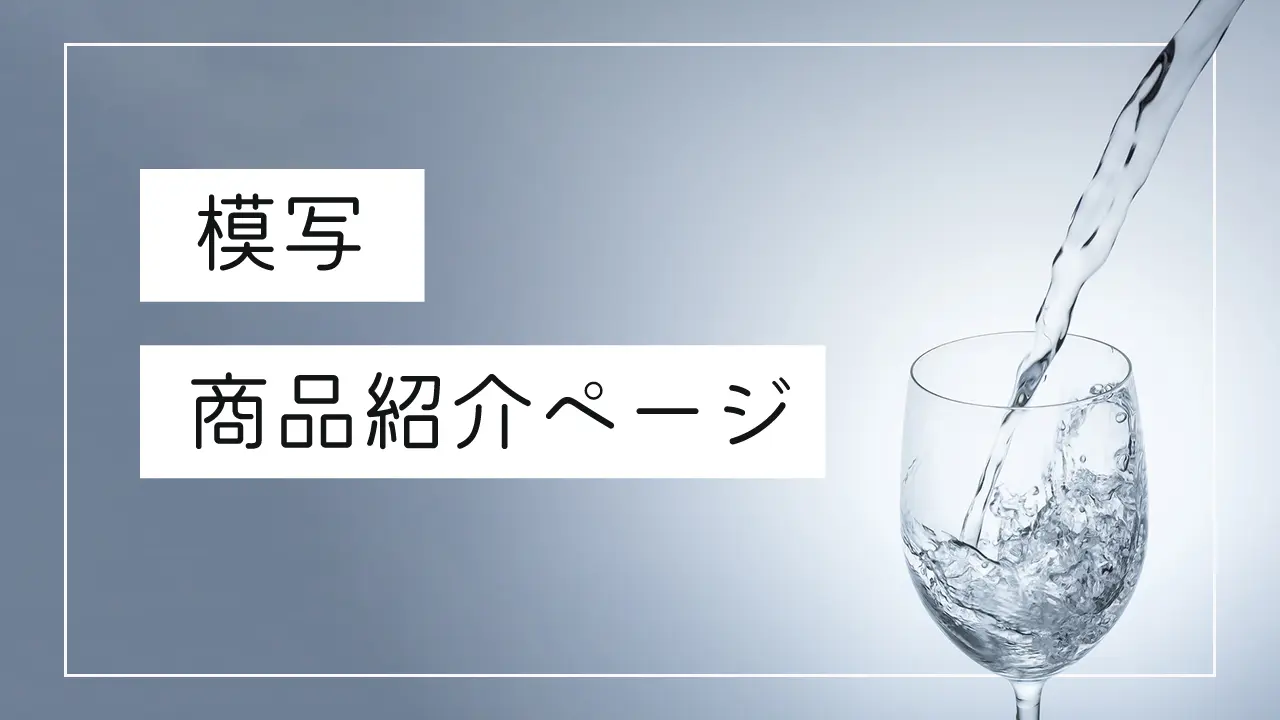
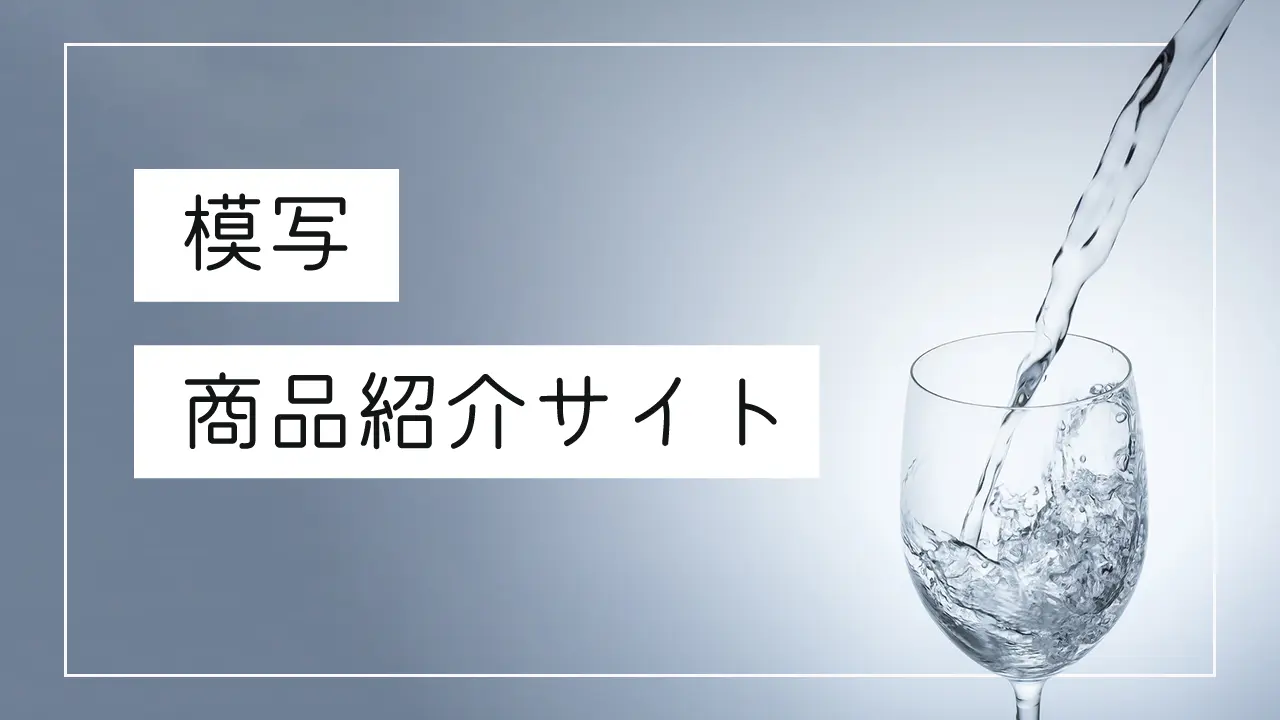
サムネ差し替え、タグ追加

Changed region(s): [[0.0938, 0.4889, 0.6562, 0.6722], [0.0938, 0.2444, 0.2812, 0.4278], [0.3125, 0.2139, 0.3438, 0.4278]]

diff --git a/src/worksData.js b/src/worksData.js
@@ -53,15 +53,15 @@ export const worksData = [
     url: "https://rp-bakery.vercel.app/",
     img: "thumb-rp.webp",
     category: "模写",
-    tag: ["HTML&CSS", "JavaScript", "Photoshop", "Illustrator"],
+    tag: ["HTML&CSS", "JavaScript", "Swiper", "Photoshop", "Illustrator"],
     overview: "架空のパン屋のWebサイトとして制作しました。",
   },
   {
-    name: "商品紹介ページ",
+    name: "商品紹介サイト",
     url: "https://rp-drink.vercel.app/",
     img: "thumb-rp2.webp",
     category: "模写",
-    tag: ["HTML&CSS", "JavaScript", "Photoshop", "Illustrator"],
+    tag: ["HTML&CSS", "JavaScript", "Swiper", "Photoshop", "Illustrator"],
     overview: "架空の清涼飲料水を紹介するWebサイトです。",
   },
 ];
